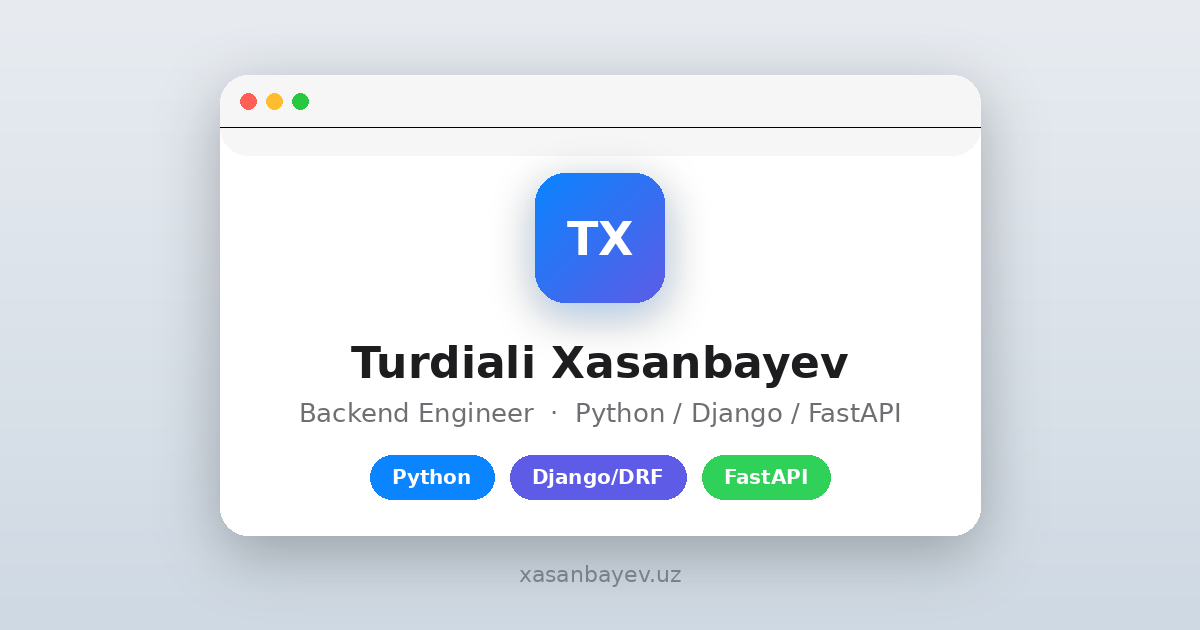
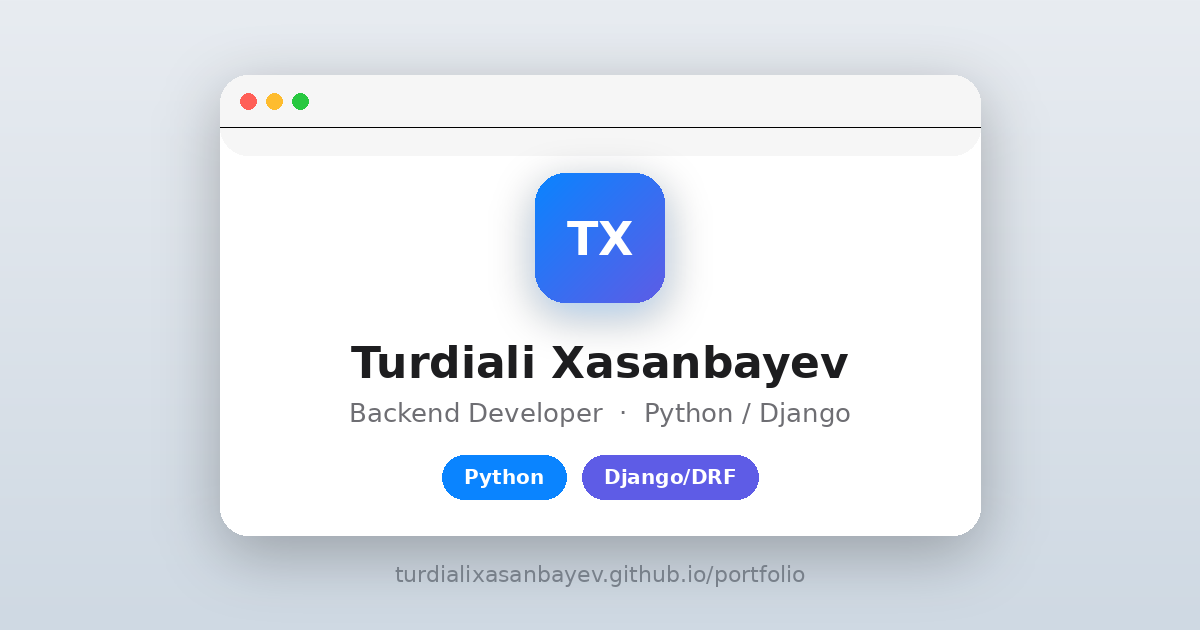
Update README and index.html for improved clarity and SEO optimization

Changed region(s): [[0.3083, 0.7238, 0.7092, 0.8143], [0.2467, 0.6333, 0.7708, 0.6937], [0.3392, 0.9048, 0.6783, 0.9349]]

diff --git a/index.html b/index.html
@@ -6,22 +6,22 @@
     <meta name="viewport" content="width=device-width, initial-scale=1.0">
 
     <meta name="description"
-        content="Turdiali Xasanbayev - Python Backend Developer. Django, FastAPI va REST API bilan ishlovchi dasturchi. Portfolio va loyihalar bilan tanishing.">
+        content="Turdiali Xasanbayev - Python Backend Developer. Developer working with Django, REST API. Check out his portfolio and projects">
 
     <meta name="keywords"
-        content="Turdiali Xasanbayev, Python developer, Django developer, Backend developer Uzbekistan, FastAPI, REST API, portfolio, web developer">
+        content="Turdiali Xasanbayev, Python developer, Django developer, Backend developer Uzbekistan, REST API, portfolio, web developer">
 
     <meta name="author" content="Turdiali Xasanbayev">
 
     <meta property="og:title" content="Turdiali Xasanbayev | Python Backend Developer">
-    <meta property="og:description" content="Django va FastAPI bilan backend development. Portfolio va loyihalar.">
+    <meta property="og:description" content="Django backend development. Portfolio and projects.">
     <meta property="og:type" content="website">
     <meta property="og:url" content="https://turdialixasanbayev.github.io/portfolio">
     <meta property="og:image" content="https://turdialixasanbayev.github.io/portfolio/preview.png">
 
     <meta name="twitter:card" content="summary_large_image">
     <meta name="twitter:title" content="Turdiali Xasanbayev | Python Backend Developer">
-    <meta name="twitter:description" content="Backend developer portfolio. Django, FastAPI, REST API.">
+    <meta name="twitter:description" content="Backend developer portfolio. Django, REST API.">
     <meta name="twitter:image" content="https://turdialixasanbayev.github.io/portfolio/preview.png">
 
     <link rel="canonical" href="https://turdialixasanbayev.github.io/portfolio">
@@ -31,7 +31,7 @@
 
     <meta name="robots" content="index, follow">
 
-    <title>Turdiali Xasanbayev | Python Backend Developer (Django, FastAPI)</title>
+    <title>Turdiali Xasanbayev | Python Backend Developer (Django)</title>
 
     <link rel="stylesheet" href="https://cdnjs.cloudflare.com/ajax/libs/font-awesome/6.4.0/css/all.min.css">
 
@@ -163,19 +163,9 @@
             color: #2563eb;
         }
 
-        .linux .skill-icon-wrapper {
-            background-color: #f5f5f5;
-            color: #1d1d1f;
-        }
-
         .django .skill-icon-wrapper {
             background-color: #f5f3ff;
             color: #7c3aed;
-        }
-
-        .fastapi .skill-icon-wrapper {
-            background-color: #f0fdf4;
-            color: #16a34a;
         }
 
         .projects-list {
@@ -222,16 +212,6 @@
         .p-iqtisod .project-icon-wrapper {
             background-color: #eff6ff;
             color: #2563eb;
-        }
-
-        .p-yt .project-icon-wrapper {
-            background-color: #f5f3ff;
-            color: #7c3aed;
-        }
-
-        .p-todo .project-icon-wrapper {
-            background-color: #f0fdf4;
-            color: #16a34a;
         }
 
         .project-info h3 {
@@ -318,7 +298,7 @@
         <div class="profile-section">
             <div class="avatar-container">TX</div>
             <h1>Turdiali Xasanbayev</h1>
-            <p>Software Engineer • (Python Backend)</p>
+            <p>Backend Developer • (Python/Django)</p>
         </div>
 
         <div class="section-title">Skills</div>
@@ -329,23 +309,11 @@
                 </div>
                 <span>Python</span>
             </div>
-            <div class="skill-item linux">
-                <div class="skill-icon-wrapper">
-                    <i class="fa-brands fa-linux"></i>
-                </div>
-                <span>Linux</span>
-            </div>
             <div class="skill-item django">
                 <div class="skill-icon-wrapper">
                     <i class="fa-solid fa-code"></i>
                 </div>
-                <span>Django</span>
-            </div>
-            <div class="skill-item fastapi">
-                <div class="skill-icon-wrapper">
-                    <i class="fa-solid fa-bolt"></i>
-                </div>
-                <span>FastAPI</span>
+                <span>Django/DRF</span>
             </div>
         </div>
 
@@ -380,51 +348,6 @@
                     <i class="fa-solid fa-arrow-up-right-from-square"></i>
                 </div>
             </a>
-
-            <a href="https://www.vortex.uz" target="_blank" class="project-item p-iqtisod">
-                <div class="project-left">
-                    <div class="project-icon-wrapper">
-                        <i class="fa-solid fa-file-lines"></i>
-                    </div>
-                    <div class="project-info">
-                        <h3>vortex.uz</h3>
-                        <p>Vortex -- Android app official web site</p>
-                    </div>
-                </div>
-                <div class="external-link-icon">
-                    <i class="fa-solid fa-arrow-up-right-from-square"></i>
-                </div>
-            </a>
-
-            <a href="https://t.me/downloa1122_bot" target="_blank" class="project-item p-yt">
-                <div class="project-left">
-                    <div class="project-icon-wrapper">
-                        <i class="fa-solid fa-paper-plane"></i>
-                    </div>
-                    <div class="project-info">
-                        <h3>YT Download Bot</h3>
-                        <p>Aiogram 3.x + yt-dlp, Docker deployment</p>
-                    </div>
-                </div>
-                <div class="external-link-icon">
-                    <i class="fa-solid fa-arrow-up-right-from-square"></i>
-                </div>
-            </a>
-
-            <a href="http://localhost:5173" target="_blank" class="project-item p-todo">
-                <div class="project-left">
-                    <div class="project-icon-wrapper">
-                        <i class="fa-solid fa-list-check"></i>
-                    </div>
-                    <div class="project-info">
-                        <h3>Todo App</h3>
-                        <p>React (Vite) + Django REST Framework</p>
-                    </div>
-                </div>
-                <div class="external-link-icon">
-                    <i class="fa-solid fa-arrow-up-right-from-square"></i>
-                </div>
-            </a>
         </div>
 
         <div class="contact-section">
@@ -434,11 +357,8 @@
                         class="fa-solid fa-envelope"></i></a>
                 <a href="https://t.me/turdialixasanbayev" target="_blank" class="social-icon" title="Telegram"><i
                         class="fa-brands fa-telegram"></i></a>
-                <a href="https://instagram.com/turdiali_xasanbayev" target="_blank" class="social-icon"
-                    title="Instagram"><i class="fa-brands fa-instagram"></i></a>
                 <a href="https://github.com/turdialixasanbayev" target="_blank" class="social-icon" title="GitHub"><i
                         class="fa-brands fa-github"></i></a>
-                <a href="tel:+998884162060" class="social-icon" title="Telefon"><i class="fa-solid fa-phone"></i></a>
             </div>
 
             <div class="footer-text">

diff --git a/README.md b/README.md
@@ -1,26 +1,26 @@
 # Turdiali Xasanbayev — Portfolio
 
-A single-page, macOS/iOS-inspired personal business card website built with vanilla HTML, CSS, and JavaScript.
+A single-page, Apple-inspired personal business card website built with HTML, CSS, and a touch of JavaScript.
 
 🔗 **Live site:** [turdialixasanbayev.github.io/portfolio](https://turdialixasanbayev.github.io/portfolio/)
 
 ## Overview
 
-This is a lightweight, responsive portfolio site designed to look and feel like a native macOS window — complete with a traffic-light title bar, a translucent Dock-style contact bar, and a bento-grid layout for skills. No frameworks, no build step — just static files deployed via GitHub Pages.
+A lightweight, responsive portfolio card presenting who I am, what I work with, and how to reach me — all on a single scroll-free page. Built with no frameworks and no build step, and deployed as static files via GitHub Pages.
 
 ## Sections
 
-- **Hero** — name, role, and avatar
-- **Skills** — Python, Django/DRF, FastAPI, Linux
-- **Projects** — featured work with short descriptions
-- **Contact** — email, Telegram, Instagram, GitHub, and phone
+- **Profile** — name, role, and avatar
+- **Skills** — Python, Django/DRF
+- **Projects** — featured work with short descriptions and links
+- **Contact** — email, Telegram, and GitHub
 - **Footer**
 
 ## Tech Stack
 
 - HTML5
-- CSS3 (Flexbox, Grid, custom properties, backdrop blur)
-- Vanilla JavaScript
+- CSS3 (Flexbox, Grid, CSS custom properties)
+- Vanilla JavaScript (footer year auto-update)
 - [Font Awesome](https://fontawesome.com/) for icons
 
 ## Project Structure
@@ -34,14 +34,17 @@ portfolio/
 └── README.md
 ```
 
+All styles are kept inline within `index.html` — no separate CSS file needed for a page this size.
+
 ## Design
 
-The interface borrows core visual patterns from Apple's macOS and iOS design language:
+The layout takes cues from Apple's product and interface design language:
 
-- Window chrome with red/yellow/green traffic-light buttons
-- Rounded corners and soft, layered shadows
-- A blurred, floating Dock for social/contact links
-- A minimal, neutral color palette with a single blue accent
+- A clean, centered card with soft rounded corners
+- A subtle, layered shadow for depth
+- A neutral gray-blue palette with a single blue accent
+- A rounded gradient avatar badge
+- A pill-style social bar for contact links
 
 ## Running Locally
 
@@ -50,10 +53,14 @@ No build tools required. Clone the repo and open `index.html` directly in a brow
 ```bash
 git clone https://github.com/turdialixasanbayev/portfolio.git
 cd portfolio
-python3 -m http.server 8000
+python3 -m http.server
 ```
 
-Then visit `http://localhost:8000`.
+Then visit `http://127.0.0.1:8000`.
+
+## SEO & Sharing
+
+The page includes meta tags for search engines and social previews (Open Graph + Twitter Card), along with a canonical URL and a custom favicon.
 
 ## Deployment
 
